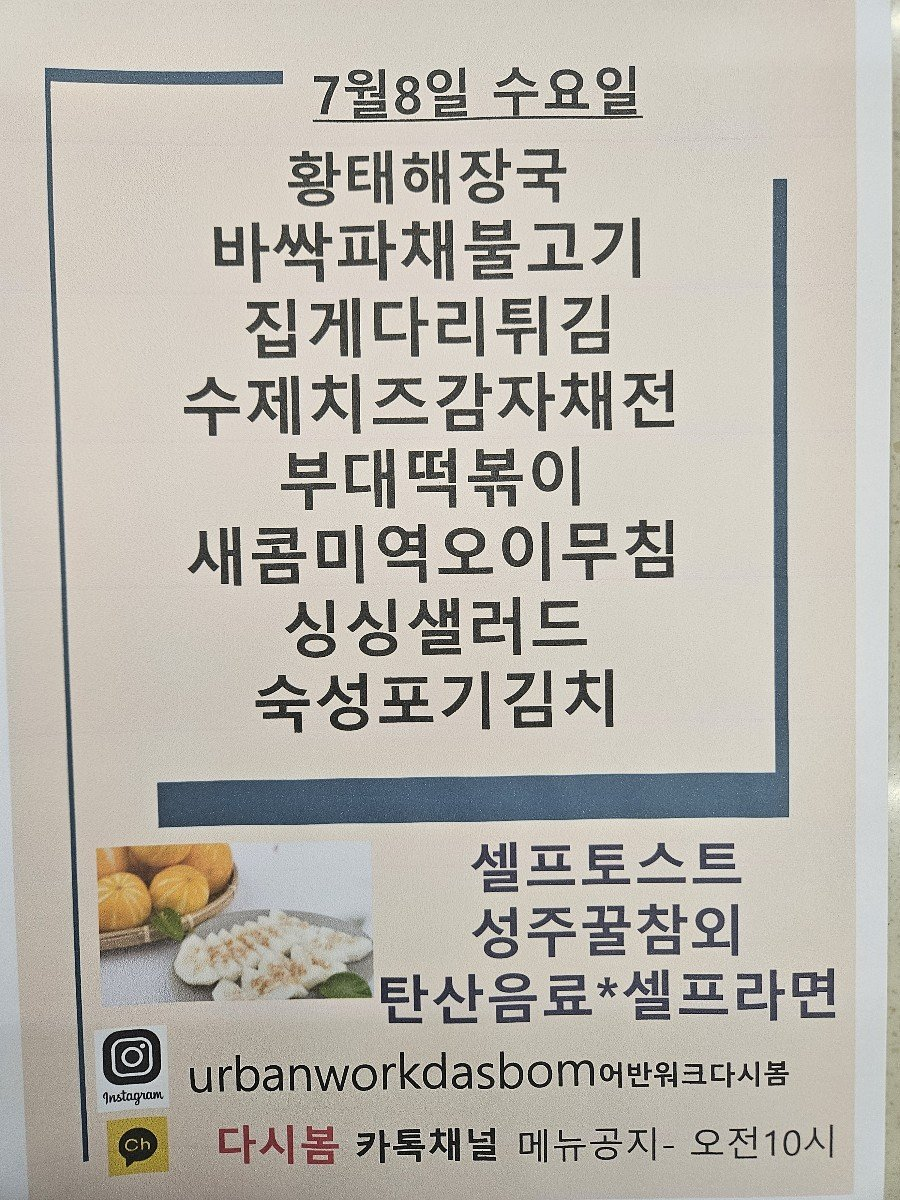
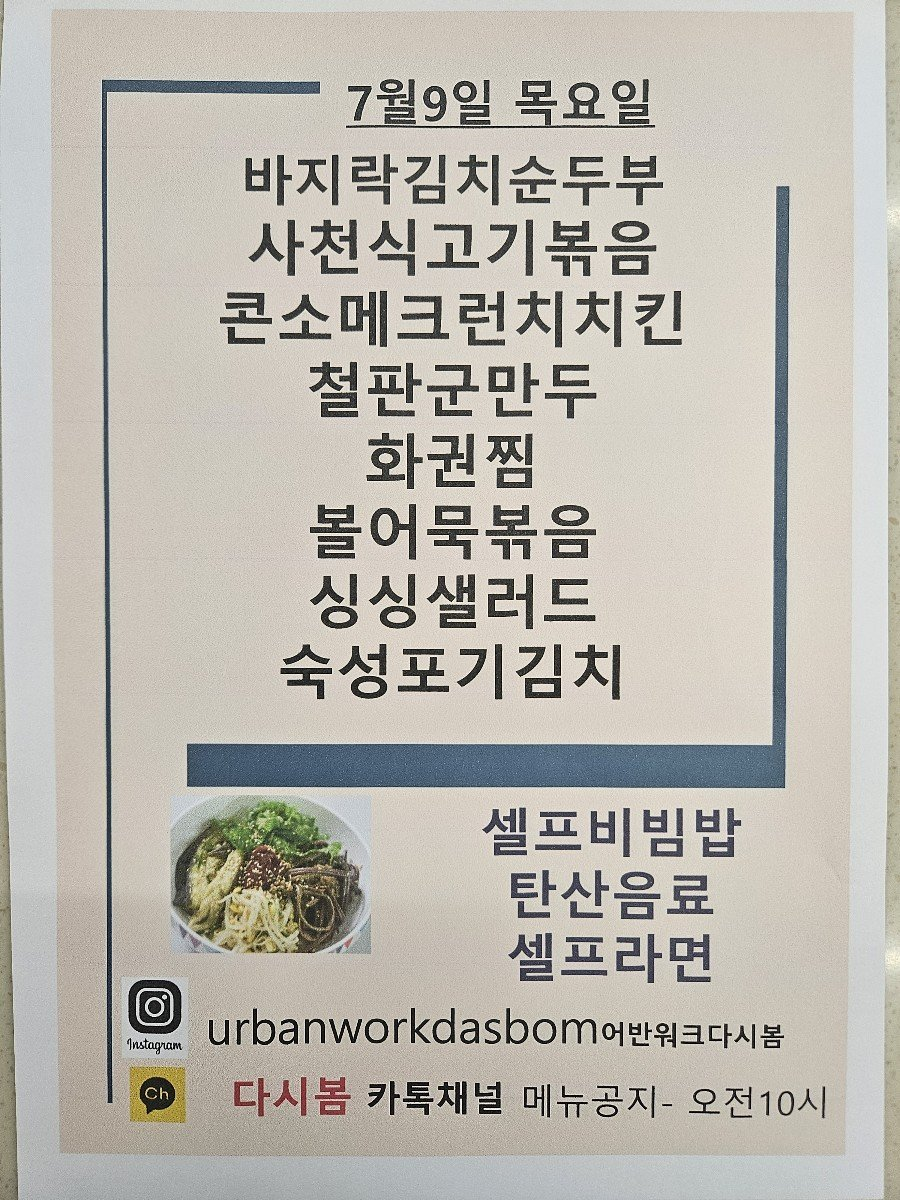
Update menu board assets

diff --git a/menu-today/index.html b/menu-today/index.html
@@ -209,7 +209,7 @@
 
     <section class="meta-bar">
       <div class="meta-card"><div class="meta-label">기준 날짜</div><div class="meta-value">2026년 7월 9일 목요일</div></div>
-      <div class="meta-card"><div class="meta-label">최종 가져온 시간</div><div class="meta-value">2026-07-09 09:33:41</div></div>
+      <div class="meta-card"><div class="meta-label">최종 가져온 시간</div><div class="meta-value">2026-07-09 09:48:05</div></div>
       <div class="meta-card"><div class="meta-label">확인 완료</div><div class="meta-value">9개 식당</div></div>
       <div class="meta-card"><div class="meta-label">준비중</div><div class="meta-value">3개 채널</div></div>
     </section>
@@ -235,7 +235,7 @@
             <div class="sub">가산 어반워크</div>
           </div>
         </div>
-        <div class="menu-inline-image"><img src="./images/dasibom.png" alt="다시 봄 식단 이미지"></div><ul><li>황태해장국</li><li>집게다리튀김</li><li>부대떡볶이</li><li>새콤미역오이무침</li><li>싱싱샐러드</li><li>숙성포기김치</li><li>a 성주꿀잠외</li><li>황태해상국</li><li>수제 치 ct 감자채 저</li></ul>
+        <div class="menu-inline-image"><img src="./images/dasibom.png" alt="다시 봄 식단 이미지"></div><ul><li>바지락김치순두부</li><li>사천식고기볶음</li><li>콘소메크런지치킨</li><li>철판군만두</li><li>화권찜</li><li>불어묵볶음</li><li>싱싱샐러드</li><li>숙성포기김치</li><li>[권찜</li></ul>
       </article>
 
       <article class="restaurant-card">
@@ -295,7 +295,7 @@
             <div class="sub">에이스테크노타워10차</div>
           </div>
         </div>
-        <div class="menu-inline-image"><img src="./images/thefoodsketch.png" alt="더푸드스케치 식단 이미지"></div><ul><li>황태해장국</li><li>훈제오리배추찜</li><li>볼키츠</li><li>감자전</li><li>참치무조림</li><li>견과류명치볶음</li><li>오이탕탕이</li><li>가든샐러드 &amp; 드레싱</li><li>배추겉절이 / 음료</li></ul>
+        <div class="menu-inline-image"><img src="./images/thefoodsketch.png" alt="더푸드스케치 식단 이미지"></div><ul><li>황태해장국</li><li>훈제오리배추찜</li><li>볼키츠</li><li>감자전</li><li>참치무조림</li><li>견과류명치볶음</li><li>오이탕탕이</li><li>가든샐러드 / 드레싱</li><li>배추겉절이 / 음료</li></ul>
       </article>
 
       <article class="restaurant-card">

diff --git a/guro-menu/index.html b/guro-menu/index.html
@@ -32,7 +32,7 @@
   </header>
   <section class="meta">
     <div><small>기준 날짜</small><strong>2026년 7월 9일 목요일</strong></div>
-    <div><small>최종 갱신</small><strong>2026-07-09 09:33:56</strong></div>
+    <div><small>최종 갱신</small><strong>2026-07-09 09:48:16</strong></div>
     <div><small>등록 식당</small><strong>5개</strong></div>
   </section>
   <div class="notice">공개 카카오 채널의 메뉴 이미지를 자동 수집하고 OCR로 정리합니다. 텍스트에 오타가 있을 수 있으니 식단 이미지를 함께 확인해 주세요.</div>
